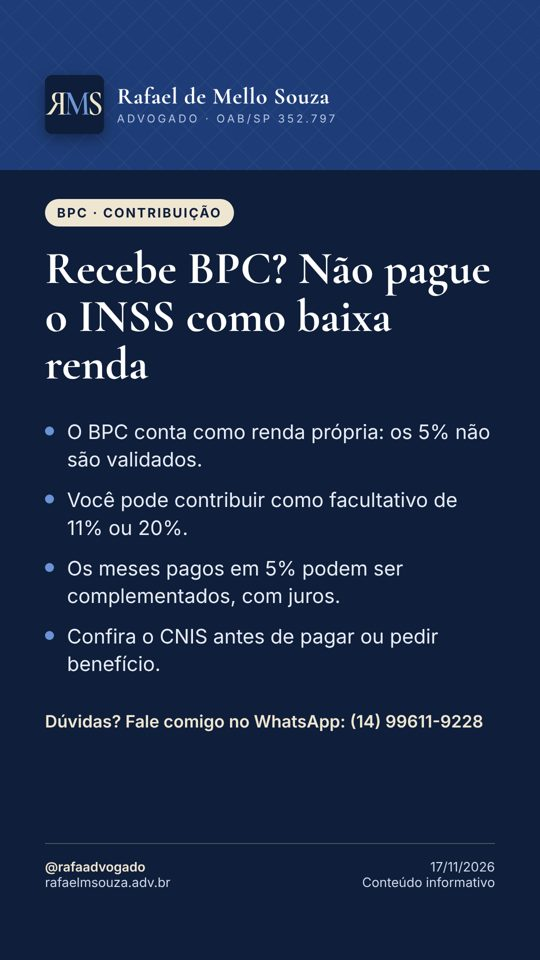
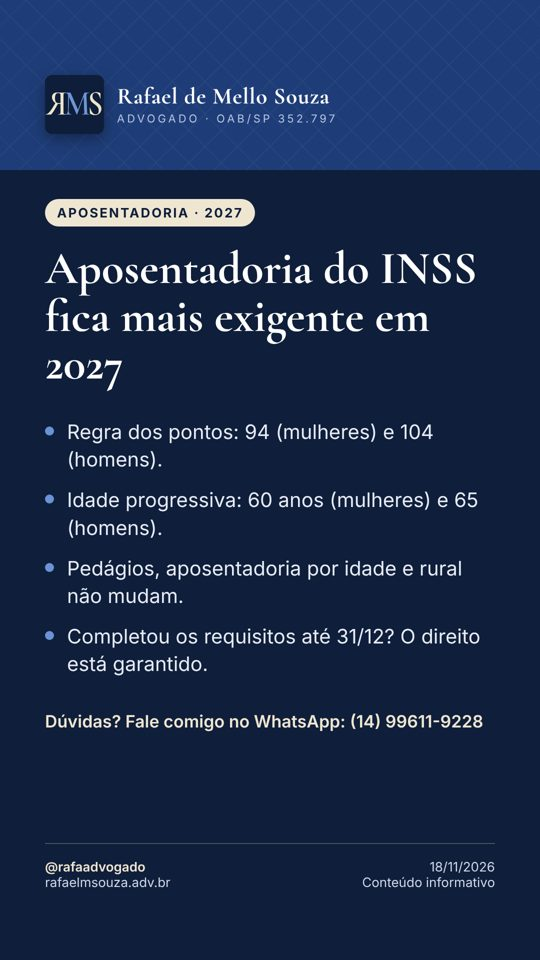
Notícia 18/11: regras de transição mais exigentes em 2027
Claude-Session: https://claude.ai/code/session_01TjRXWga78bz1b3B69nQ2d7

diff --git a/noticias/index.html b/noticias/index.html
@@ -14,4 +14,4 @@ h1{font-family:Georgia,serif;color:#0f1e3a;font-size:28px;line-height:1.25;margi
 .btn.s{background:#fff;color:#0f1e3a;border:1px solid #e3dccb}.lista a{text-decoration:none}.lista div{border-top:1px solid #e3dccb;padding:14px 0}.lista div:first-child{border-top:0}
 footer{text-align:center;font-size:13px;color:#5d6676;padding:10px 16px 30px}</style></head><body>
 <header><a href="/"><img src="/icon.png" alt=""></a><a href="/"><div class="n">Rafael de Mello Souza</div><div class="o">ADVOGADO · OAB/SP 352.797</div></a></header>
-<nav><a href="/#inicio">Início</a><a href="/#quem-somos">Quem somos</a><a href="/noticias/">Notícias</a><a href="/#consulta">Consultar processo</a></nav><main><div class="card"><h1>Notícias</h1><p class="sub">INSS e Direito Previdenciário, toda segunda, quarta e sexta.</p><div class="lista"><div><span class="d">17/11/2026</span><h2><a href="/noticias/2026-11-17-bpc-nao-pode-contribuir-facultativo-baixa-renda.html">Quem recebe BPC não pode pagar o INSS como baixa renda (5%)</a></h2><span class="sub">Quem recebe o BPC/LOAS pode contribuir para o INSS, mas não na modalidade de facultativo de baixa renda, com alíquota de 5%. Em 16/10/2026, a Turma Regional de Uniformização dos…</span></div><div><span class="d">16/11/2026</span><h2><a href="/noticias/2026-11-16-14-salario-inss-nao-aprovado-2026.html">14º salário do INSS: não há pagamento previsto em 2026</a></h2><span class="sub">Mensagens nas redes sociais falam em um &quot;14º salário&quot; para aposentados e pensionistas ainda neste ano, mas não existe lei que autorize esse pagamento. Há projetos sobre o tema na…</span></div><div><span class="d">13/11/2026</span><h2><a href="/noticias/2026-11-13-13-salario-proporcional-novos-beneficios-inss.html">Começou a receber do INSS depois de abril? O 13º vem na folha de novembro</a></h2><span class="sub">Quem passou a receber aposentadoria, pensão por morte, auxílio-acidente ou auxílio por incapacidade temporária a partir de maio de 2026 não entrou na antecipação do 13º feita em…</span></div><div><span class="d">12/11/2026</span><h2><a href="/noticias/2026-11-12-stf-vai-julgar-calculo-aposentadoria-pcd-tema-1497.html">STF vai julgar o cálculo da aposentadoria da pessoa com deficiência</a></h2><span class="sub">O STF reconheceu, por unanimidade, a repercussão geral do Tema 1497, que discute como deve ser calculada a aposentadoria da pessoa com deficiência depois da Reforma da…</span></div><div><span class="d">11/11/2026</span><h2><a href="/noticias/2026-11-11-inss-auxilio-doenca-negado-atestmed-reanalise-10-dias.html">Auxílio-doença negado pelo Atestmed: INSS abre reanálise em 10 dias</a></h2><span class="sub">Quem teve o auxílio por incapacidade temporária (antigo auxílio-doença) negado só pela análise de documentos do Atestmed pode pedir uma reanálise em até 10 dias, contados da…</span></div><div><span class="d">10/11/2026</span><h2><a href="/noticias/2026-11-10-stf-tema-1497-calculo-aposentadoria-pessoa-com-deficiencia.html">STF decide hoje se julgará o cálculo da aposentadoria da pessoa com deficiência</a></h2><span class="sub">Termina hoje (10/11) a votação no Plenário Virtual do STF sobre a repercussão geral do Tema 1497 (RE 1.597.638), que discute os critérios de cálculo da aposentadoria da pessoa com…</span></div><div><span class="d">10/11/2026</span><h2><a href="/noticias/2026-11-10-podcast-aposentadoria-especial-sem-idade-minima.html">Podcast: aposentadoria especial sem idade mínima após decisão do STF</a></h2><span class="sub">Novo episódio do podcast explica a decisão do STF na ADI 6309, que derrubou a idade mínima de 55, 58 e 60 anos criada pela Reforma da Previdência para a aposentadoria especial. O…</span></div><div><span class="d">10/11/2026</span><h2><a href="/noticias/2026-11-10-inss-piso-aposentadoria-2027-1741.html">INSS: piso das aposentadorias deve ir a R$ 1.741 em 2027</a></h2><span class="sub">O Orçamento de 2027 enviado pelo governo prevê salário mínimo de R$ 1.741, R$ 120 a mais que os R$ 1.621 atuais (alta de cerca de 7,4%). Aposentadorias, pensões e o BPC de um…</span></div><div><span class="d">09/11/2026</span><h2><a href="/noticias/2026-11-09-inss-biometria-bloqueio-falso.html">INSS: é falso que benefício será bloqueado sem biometria em novembro</a></h2><span class="sub">Circulam mensagens dizendo que aposentadorias e pensões serão bloqueadas em 20 de novembro por falta de biometria. O INSS informa que não existe prazo geral desse tipo: a…</span></div><div><span class="d">08/11/2026</span><h2><a href="/noticias/2026-11-08-calendario-novembro.html">INSS: pagamentos de novembro começam no dia 24</a></h2><span class="sub">Os benefícios referentes a novembro começam a ser pagos em 24/11 para quem recebe até um salário mínimo e em 1º/12 para quem recebe acima disso. Os depósitos vão até 7 de…</span></div></div></div></main><footer>Rafael de Mello Souza · Advogado · OAB/SP nº 352.797<br>© 2026 Rafael de Mello Souza – Advocacia. Todos os direitos reservados.<br>Site e sistema desenvolvidos por Rafael de Mello Souza.<br>Conteúdo informativo, não constitui consultoria jurídica. Cada caso tem particularidades. · <a href="/privacidade.html">Privacidade</a></footer></body></html>
+<nav><a href="/#inicio">Início</a><a href="/#quem-somos">Quem somos</a><a href="/noticias/">Notícias</a><a href="/#consulta">Consultar processo</a></nav><main><div class="card"><h1>Notícias</h1><p class="sub">INSS e Direito Previdenciário, toda segunda, quarta e sexta.</p><div class="lista"><div><span class="d">18/11/2026</span><h2><a href="/noticias/2026-11-18-aposentadoria-regras-transicao-2027.html">Aposentadoria do INSS: duas regras de transição ficam mais exigentes em 2027</a></h2><span class="sub">Em 1º de janeiro de 2027, duas regras de transição da Reforma da Previdência sobem de patamar. Na regra dos pontos (idade + tempo de contribuição), a exigência passa de 93 para 94…</span></div><div><span class="d">17/11/2026</span><h2><a href="/noticias/2026-11-17-bpc-nao-pode-contribuir-facultativo-baixa-renda.html">Quem recebe BPC não pode pagar o INSS como baixa renda (5%)</a></h2><span class="sub">Quem recebe o BPC/LOAS pode contribuir para o INSS, mas não na modalidade de facultativo de baixa renda, com alíquota de 5%. Em 16/10/2026, a Turma Regional de Uniformização dos…</span></div><div><span class="d">16/11/2026</span><h2><a href="/noticias/2026-11-16-14-salario-inss-nao-aprovado-2026.html">14º salário do INSS: não há pagamento previsto em 2026</a></h2><span class="sub">Mensagens nas redes sociais falam em um &quot;14º salário&quot; para aposentados e pensionistas ainda neste ano, mas não existe lei que autorize esse pagamento. Há projetos sobre o tema na…</span></div><div><span class="d">13/11/2026</span><h2><a href="/noticias/2026-11-13-13-salario-proporcional-novos-beneficios-inss.html">Começou a receber do INSS depois de abril? O 13º vem na folha de novembro</a></h2><span class="sub">Quem passou a receber aposentadoria, pensão por morte, auxílio-acidente ou auxílio por incapacidade temporária a partir de maio de 2026 não entrou na antecipação do 13º feita em…</span></div><div><span class="d">12/11/2026</span><h2><a href="/noticias/2026-11-12-stf-vai-julgar-calculo-aposentadoria-pcd-tema-1497.html">STF vai julgar o cálculo da aposentadoria da pessoa com deficiência</a></h2><span class="sub">O STF reconheceu, por unanimidade, a repercussão geral do Tema 1497, que discute como deve ser calculada a aposentadoria da pessoa com deficiência depois da Reforma da…</span></div><div><span class="d">11/11/2026</span><h2><a href="/noticias/2026-11-11-inss-auxilio-doenca-negado-atestmed-reanalise-10-dias.html">Auxílio-doença negado pelo Atestmed: INSS abre reanálise em 10 dias</a></h2><span class="sub">Quem teve o auxílio por incapacidade temporária (antigo auxílio-doença) negado só pela análise de documentos do Atestmed pode pedir uma reanálise em até 10 dias, contados da…</span></div><div><span class="d">10/11/2026</span><h2><a href="/noticias/2026-11-10-stf-tema-1497-calculo-aposentadoria-pessoa-com-deficiencia.html">STF decide hoje se julgará o cálculo da aposentadoria da pessoa com deficiência</a></h2><span class="sub">Termina hoje (10/11) a votação no Plenário Virtual do STF sobre a repercussão geral do Tema 1497 (RE 1.597.638), que discute os critérios de cálculo da aposentadoria da pessoa com…</span></div><div><span class="d">10/11/2026</span><h2><a href="/noticias/2026-11-10-podcast-aposentadoria-especial-sem-idade-minima.html">Podcast: aposentadoria especial sem idade mínima após decisão do STF</a></h2><span class="sub">Novo episódio do podcast explica a decisão do STF na ADI 6309, que derrubou a idade mínima de 55, 58 e 60 anos criada pela Reforma da Previdência para a aposentadoria especial. O…</span></div><div><span class="d">10/11/2026</span><h2><a href="/noticias/2026-11-10-inss-piso-aposentadoria-2027-1741.html">INSS: piso das aposentadorias deve ir a R$ 1.741 em 2027</a></h2><span class="sub">O Orçamento de 2027 enviado pelo governo prevê salário mínimo de R$ 1.741, R$ 120 a mais que os R$ 1.621 atuais (alta de cerca de 7,4%). Aposentadorias, pensões e o BPC de um…</span></div><div><span class="d">09/11/2026</span><h2><a href="/noticias/2026-11-09-inss-biometria-bloqueio-falso.html">INSS: é falso que benefício será bloqueado sem biometria em novembro</a></h2><span class="sub">Circulam mensagens dizendo que aposentadorias e pensões serão bloqueadas em 20 de novembro por falta de biometria. O INSS informa que não existe prazo geral desse tipo: a…</span></div><div><span class="d">08/11/2026</span><h2><a href="/noticias/2026-11-08-calendario-novembro.html">INSS: pagamentos de novembro começam no dia 24</a></h2><span class="sub">Os benefícios referentes a novembro começam a ser pagos em 24/11 para quem recebe até um salário mínimo e em 1º/12 para quem recebe acima disso. Os depósitos vão até 7 de…</span></div></div></div></main><footer>Rafael de Mello Souza · Advogado · OAB/SP nº 352.797<br>© 2026 Rafael de Mello Souza – Advocacia. Todos os direitos reservados.<br>Site e sistema desenvolvidos por Rafael de Mello Souza.<br>Conteúdo informativo, não constitui consultoria jurídica. Cada caso tem particularidades. · <a href="/privacidade.html">Privacidade</a></footer></body></html>

diff --git a/noticias/2026-11-18-aposentadoria-regras-transicao-2027.html b/noticias/2026-11-18-aposentadoria-regras-transicao-2027.html
@@ -1,0 +1,19 @@
+<!DOCTYPE html><html lang="pt-BR"><head><meta charset="utf-8">
+<meta name="viewport" content="width=device-width, initial-scale=1">
+<title>Aposentadoria do INSS: duas regras de transição ficam mais exigentes em 2027 | Rafael de Mello Souza – Advogado</title><meta name="description" content="Em 1º de janeiro de 2027, duas regras de transição da Reforma da Previdência sobem de patamar. Na regra dos pontos (idade + tempo de contribuição), a…"><link rel="canonical" href="https://rafaelmsouza.adv.br/noticias/2026-11-18-aposentadoria-regras-transicao-2027.html">
+<meta property="og:type" content="article"><meta property="og:title" content="Aposentadoria do INSS: duas regras de transição ficam mais exigentes em 2027 | Rafael de Mello Souza – Advogado"><meta property="og:description" content="Em 1º de janeiro de 2027, duas regras de transição da Reforma da Previdência sobem de patamar. Na regra dos pontos (idade + tempo de contribuição), a…"><meta property="og:url" content="https://rafaelmsouza.adv.br/noticias/2026-11-18-aposentadoria-regras-transicao-2027.html"><meta property="og:image" content="https://rafaelmsouza.adv.br/cartao.jpg"><meta property="og:locale" content="pt_BR">
+<link rel="icon" href="/icon.png"><meta name="theme-color" content="#0f1e3a">
+<script defer src="https://cloud.umami.is/script.js" data-website-id="e1ed7d73-fa33-4e80-996a-a7cae57abea0"></script><script type="application/ld+json">{"@context": "https://schema.org", "@type": "NewsArticle", "headline": "Aposentadoria do INSS: duas regras de transição ficam mais exigentes em 2027", "description": "Em 1º de janeiro de 2027, duas regras de transição da Reforma da Previdência sobem de patamar. Na regra dos pontos (idade + tempo de contribuição), a…", "datePublished": "2026-11-18", "dateModified": "2026-11-18", "inLanguage": "pt-BR", "mainEntityOfPage": "https://rafaelmsouza.adv.br/noticias/2026-11-18-aposentadoria-regras-transicao-2027.html", "image": ["https://rafaelmsouza.adv.br/cartao.jpg"], "author": {"@type": "Person", "name": "Rafael de Mello Souza", "jobTitle": "Advogado", "url": "https://rafaelmsouza.adv.br"}, "publisher": {"@type": "Organization", "name": "Rafael de Mello Souza – Advocacia", "logo": {"@type": "ImageObject", "url": "https://rafaelmsouza.adv.br/icon.png"}}}</script>
+<style>*{box-sizing:border-box}body{margin:0;background:#f7f3ea;color:#1b2333;font:17px/1.6 -apple-system,BlinkMacSystemFont,"Segoe UI",Roboto,Helvetica,Arial,sans-serif}
+a{color:#1e3d78}header{background:#0f1e3a;color:#efe6d2;padding:16px 20px;display:flex;align-items:center;gap:14px}
+header img{width:44px;height:44px;border-radius:8px}header a{color:inherit;text-decoration:none}.n{font-family:Georgia,serif;font-size:19px}.o{font-size:12px;letter-spacing:2px;color:#b9c6e4}
+nav{background:#1e3d78;display:flex;overflow-x:auto;padding:0 8px}nav a{color:#dfe7f6;text-decoration:none;padding:11px 12px;font-size:15px;white-space:nowrap}
+main{max-width:720px;margin:0 auto;padding:22px 16px 110px}article,.card{background:#fff;border:1px solid #e3dccb;border-radius:16px;padding:22px}
+h1{font-family:Georgia,serif;color:#0f1e3a;font-size:28px;line-height:1.25;margin:4px 0 10px}h2{font-family:Georgia,serif;color:#0f1e3a;font-size:20px;margin:0 0 4px}
+.d{color:#5d6676;font-size:14px;font-weight:600}.sub{color:#5d6676;font-size:14px}.btn{display:inline-block;background:#1f9d55;color:#fff;text-decoration:none;font-weight:700;padding:12px 18px;border-radius:10px;margin:10px 8px 0 0}
+.btn.s{background:#fff;color:#0f1e3a;border:1px solid #e3dccb}.lista a{text-decoration:none}.lista div{border-top:1px solid #e3dccb;padding:14px 0}.lista div:first-child{border-top:0}
+footer{text-align:center;font-size:13px;color:#5d6676;padding:10px 16px 30px}</style></head><body>
+<header><a href="/"><img src="/icon.png" alt=""></a><a href="/"><div class="n">Rafael de Mello Souza</div><div class="o">ADVOGADO · OAB/SP 352.797</div></a></header>
+<nav><a href="/#inicio">Início</a><a href="/#quem-somos">Quem somos</a><a href="/noticias/">Notícias</a><a href="/#consulta">Consultar processo</a></nav><main>
+<article><div class="d">18/11/2026 · Notícias</div><h1>Aposentadoria do INSS: duas regras de transição ficam mais exigentes em 2027</h1><p>Em 1º de janeiro de 2027, duas regras de transição da Reforma da Previdência sobem de patamar. Na regra dos pontos (idade + tempo de contribuição), a exigência passa de 93 para 94 pontos para mulheres e de 103 para 104 para homens. Na regra da idade mínima progressiva, a idade sobe de 59 anos e 6 meses para 60 anos (mulheres) e de 64 anos e 6 meses para 65 anos (homens). O tempo mínimo de contribuição continua de 30 anos para mulheres e 35 para homens.</p><p>As regras do pedágio de 50% e de 100%, a aposentadoria por idade e a aposentadoria rural não mudam. Quem completar todos os requisitos de uma regra até 31/12/2026 tem direito adquirido a ela, mesmo que faça o pedido depois. Já pedir em dezembro sem ter completado os requisitos não garante a regra de 2026. Para quem está perto de se aposentar, vale conferir o CNIS e simular as regras ainda este ano.</p><p class="sub">Fonte: <a href="https://investnews.com.br/economia/aposentadoria-do-inss-2027-novas-regras/" target="_blank" rel="noopener nofollow" data-umami-event="noticia-fonte">InvestNews – Aposentadoria do INSS fica mais exigente em 2027</a></p>
+<a class="btn" href="https://wa.me/5514996119228?text=Ol%C3%A1%2C%20Dr.%20Rafael%21%20Li%20a%20not%C3%ADcia%20%22Aposentadoria%20do%20INSS%3A%20duas%20regras%20de%20transi%C3%A7%C3%A3o%20ficam%20mais%20exigentes%20em%202027%22%20no%20seu%20site%20e%20tenho%20uma%20d%C3%BAvida." target="_blank" rel="noopener" data-umami-event="whatsapp">💬 Tirar dúvida no WhatsApp</a><a class="btn s" href="/noticias/">Ver todas as notícias</a></article></main><footer>Rafael de Mello Souza · Advogado · OAB/SP nº 352.797<br>© 2026 Rafael de Mello Souza – Advocacia. Todos os direitos reservados.<br>Site e sistema desenvolvidos por Rafael de Mello Souza.<br>Conteúdo informativo, não constitui consultoria jurídica. Cada caso tem particularidades. · <a href="/privacidade.html">Privacidade</a></footer></body></html>
